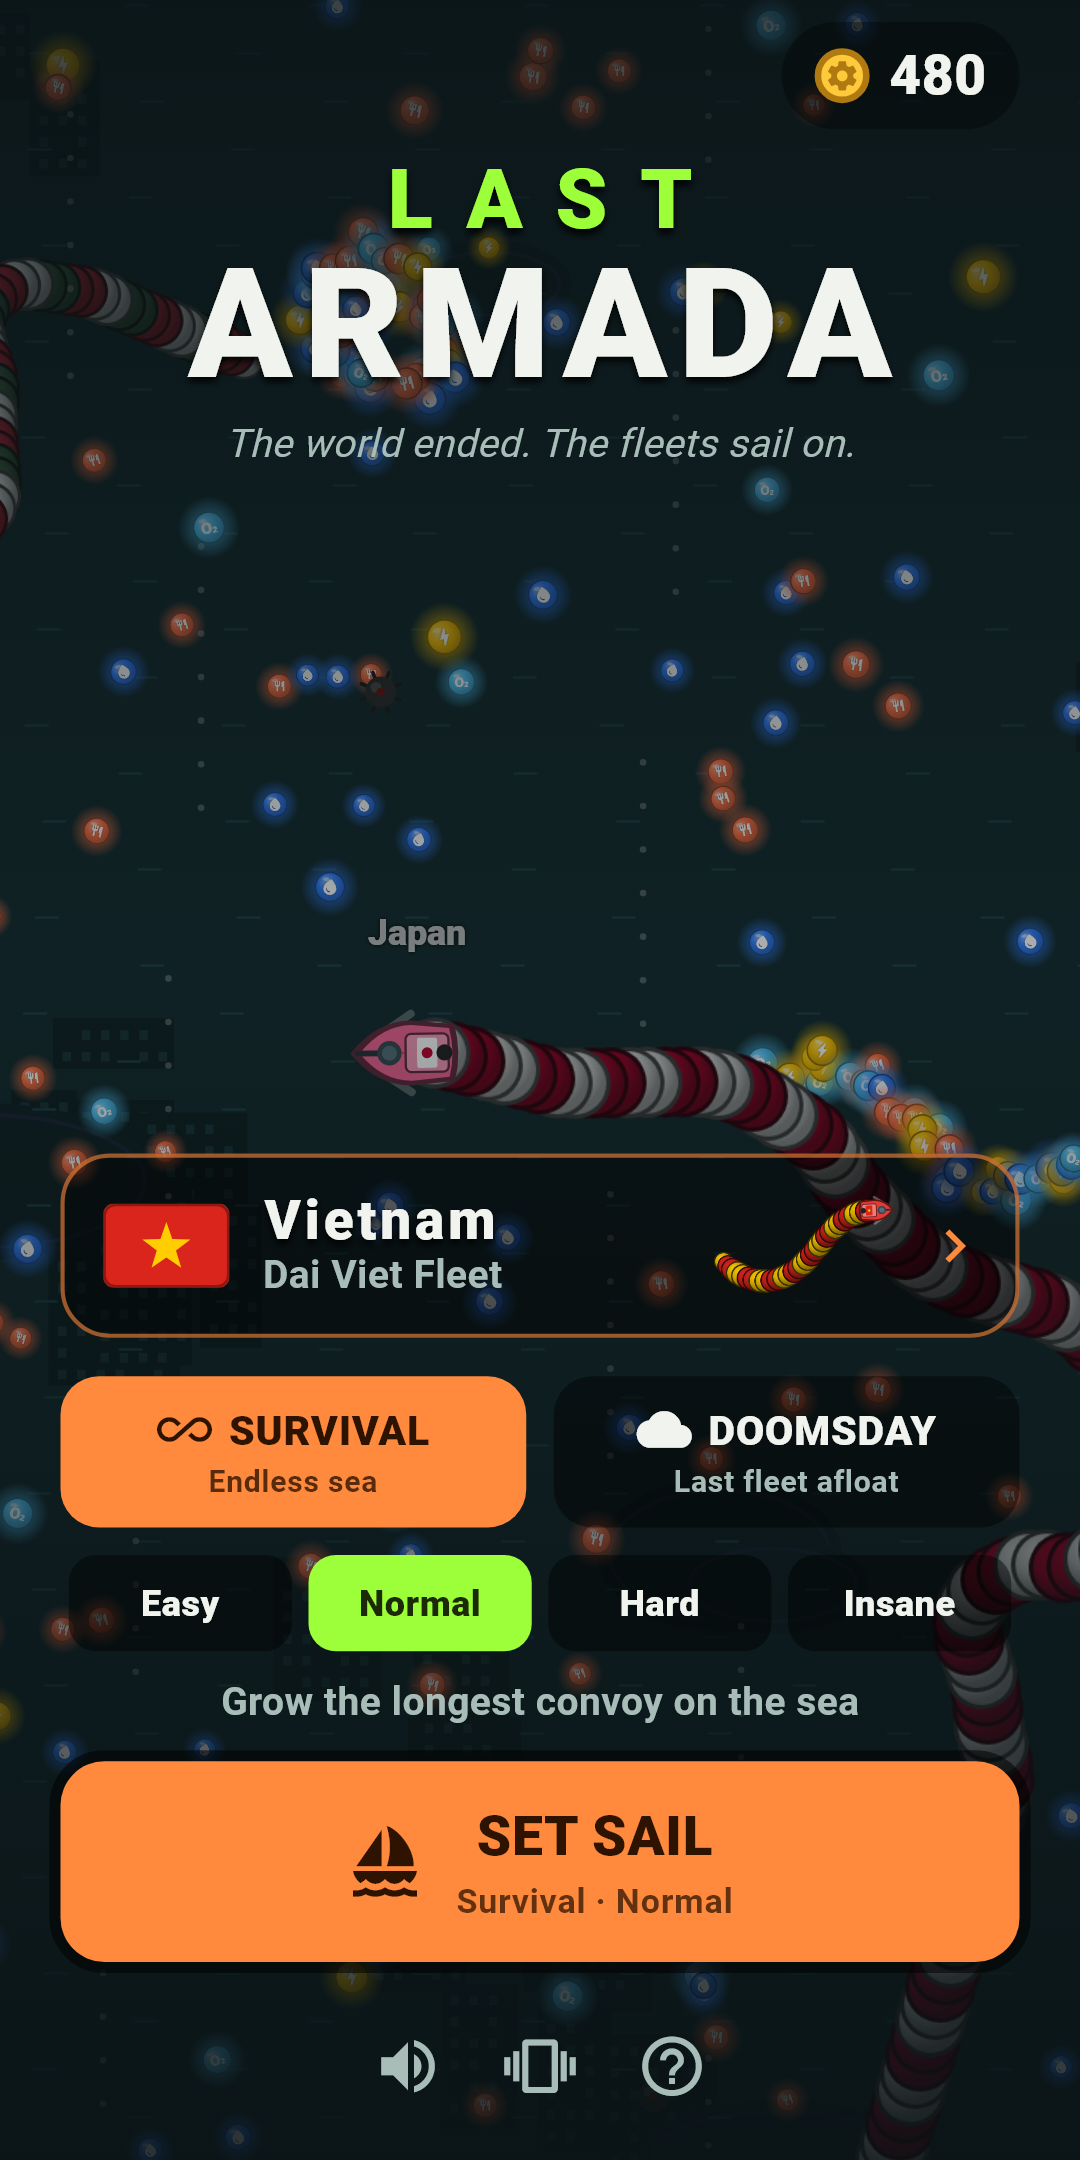
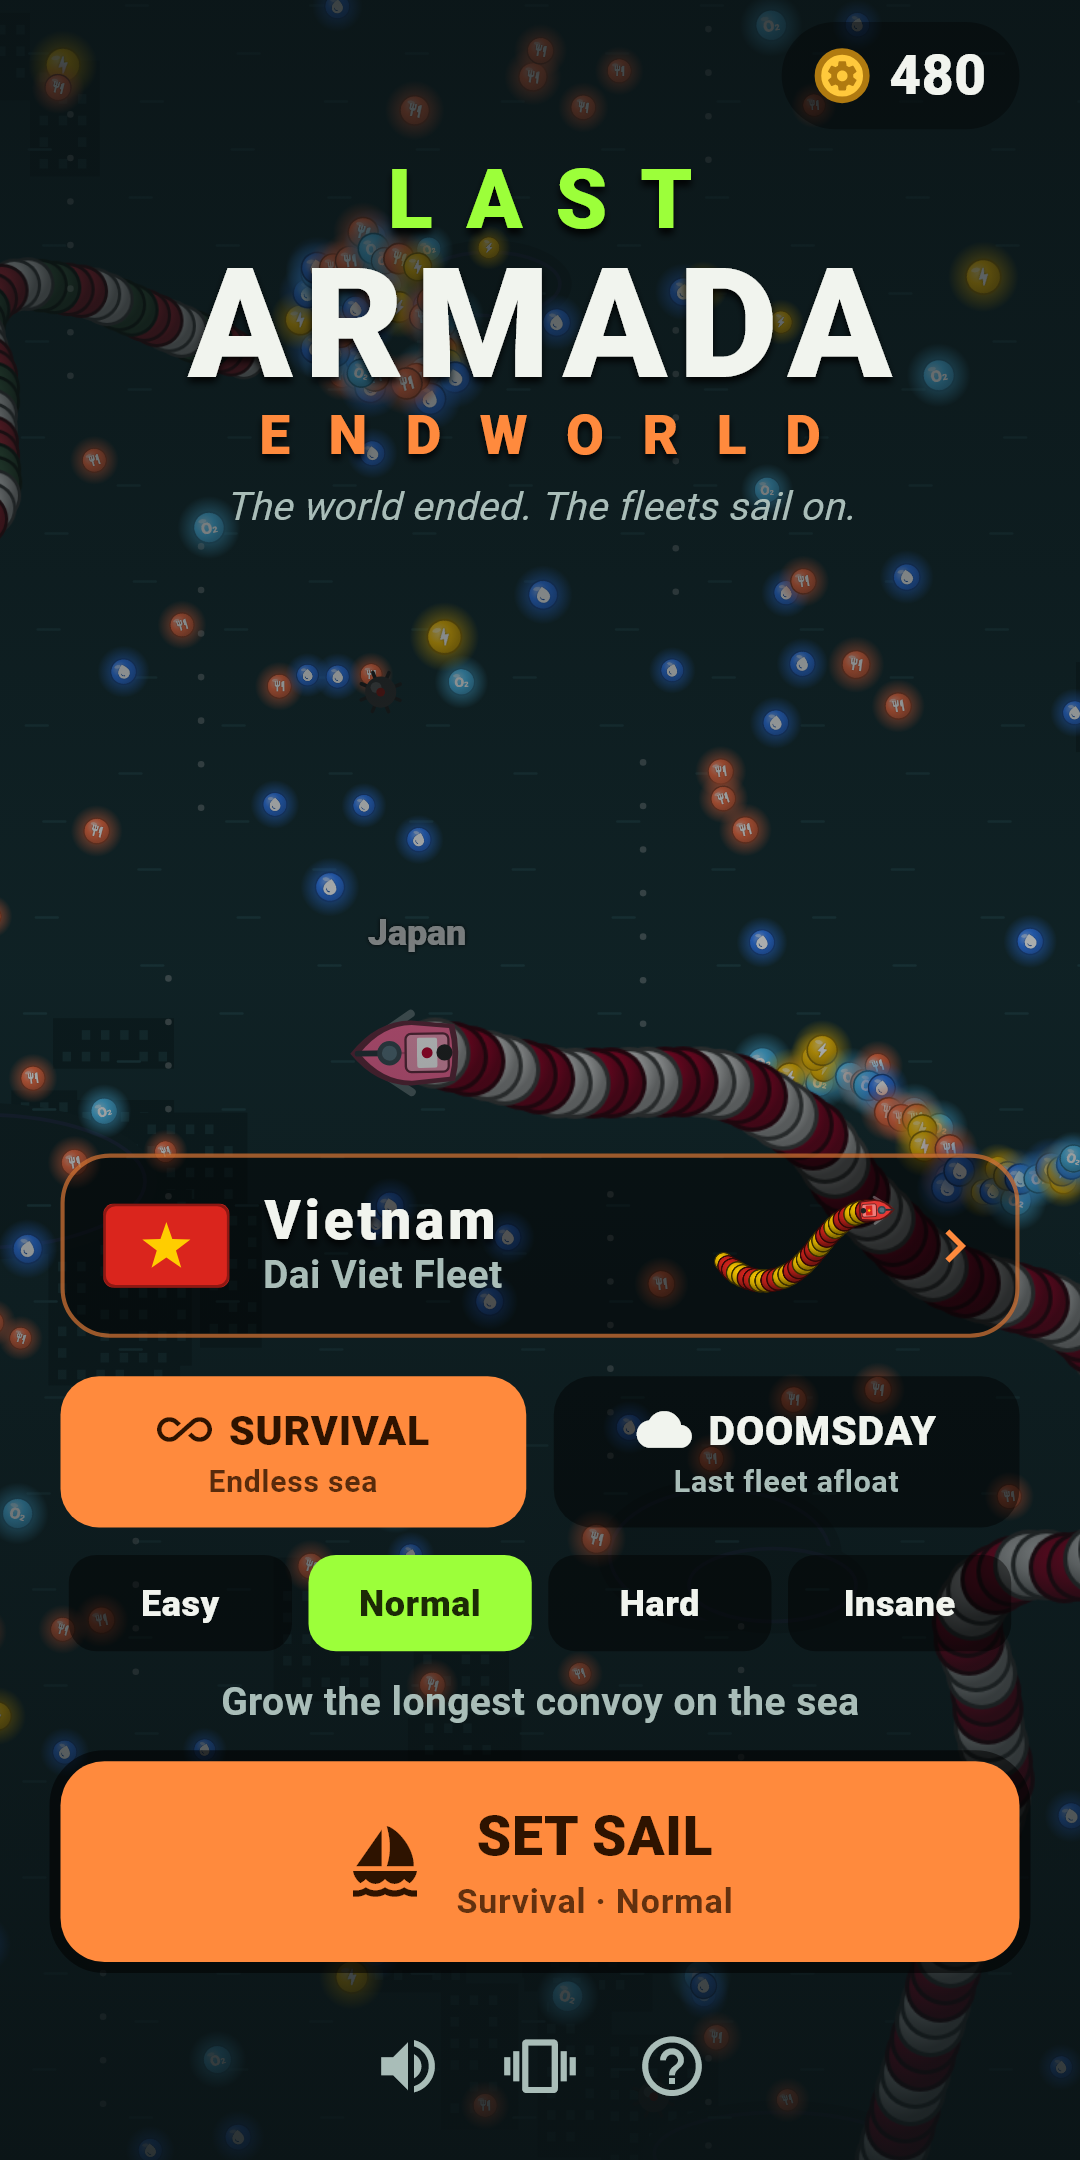
Last Armada: rename to Last Armada: Endworld

Changed region(s): [[0.5194, 0.1861, 0.7944, 0.2481], [0.2139, 0.1861, 0.4889, 0.2481]]

diff --git a/lastarmada/privacy-policy.html b/lastarmada/privacy-policy.html
@@ -3,8 +3,8 @@
 <head>
 <meta charset="utf-8">
 <meta name="viewport" content="width=device-width, initial-scale=1">
-<title>Privacy Policy – Last Armada</title>
-<meta name="description" content="Privacy Policy for the Last Armada Android game.">
+<title>Privacy Policy – Last Armada: Endworld</title>
+<meta name="description" content="Privacy Policy for the Last Armada: Endworld Android game.">
 <style>
   :root {
     --bg: #f3f6f1; --fg: #15261f; --muted: #52665c; --accent: #1e7a57;
@@ -34,7 +34,7 @@
 <body>
 <main>
   <h1>Privacy Policy</h1>
-  <p class="meta">Last Armada (Android) · Effective date: November 23, 2026</p>
+  <p class="meta">Last Armada: Endworld (Android) · Effective date: November 23, 2026</p>
 
   <div class="summary">
     <strong>The short version</strong>
@@ -46,7 +46,7 @@
   </div>
 
   <h2>1. Who we are</h2>
-  <p>This policy applies to the Last Armada game for Android (package <code>com.anhrice.lastarmada</code>), published by anhrice (“we”, “us”). If you have any question about this policy, contact us at <a href="mailto:tanh.naht@gmail.com">tanh.naht@gmail.com</a>.</p>
+  <p>This policy applies to the Last Armada: Endworld game for Android (package <code>com.anhrice.lastarmada</code>), published by anhrice (“we”, “us”). If you have any question about this policy, contact us at <a href="mailto:tanh.naht@gmail.com">tanh.naht@gmail.com</a>.</p>
 
   <h2>2. Information stored on your device</h2>
   <p>To keep your progress, the game saves in its private storage on your device: your salvage coins, the nations you have unlocked and the one you command, your best score for each mode and difficulty, the number of matches played, fleets sunk and Doomsday wins, your chosen mode and difficulty, and your sound and vibration settings.</p>
@@ -55,7 +55,7 @@
   <p>The rival fleets in the game are computer-controlled. There is no chat, no multiplayer and no way to share content with other users. Flags and nation names are used for fun only and carry no political meaning.</p>
 
   <h2>3. Advertising (Google AdMob)</h2>
-  <p>Last Armada shows full-screen ads at natural breaks (after a match ends, at most every few matches), provided by Google AdMob, a service of Google LLC. You can also choose to watch an ad to unlock a nation for free or to continue a match after your fleet sinks; such ads only play when you tap that button. Ads never appear during a match and only after your consent choice (where required) has been made. Ads are limited to content rated PG or lower. To serve ads, measure their performance and prevent fraud, the Google Mobile Ads SDK built into the game may automatically collect and share with Google:</p>
+  <p>Last Armada: Endworld shows full-screen ads at natural breaks (after a match ends, at most every few matches), provided by Google AdMob, a service of Google LLC. You can also choose to watch an ad to unlock a nation for free or to continue a match after your fleet sinks; such ads only play when you tap that button. Ads never appear during a match and only after your consent choice (where required) has been made. Ads are limited to content rated PG or lower. To serve ads, measure their performance and prevent fraud, the Google Mobile Ads SDK built into the game may automatically collect and share with Google:</p>
   <div class="table-wrap">
   <table>
     <tr><th>Data</th><th>Purpose</th></tr>
@@ -82,7 +82,7 @@
   <p>Your progress and settings stay on your device. Uninstalling the game or clearing its storage deletes everything. We hold no copy and therefore cannot recover it. For data collected by Google for advertising, see Google’s policy linked above and <a href="https://myadcenter.google.com/" rel="noopener">My Ad Center</a>.</p>
 
   <h2>7. Children</h2>
-  <p>Last Armada is not directed at children under 13 (or the equivalent minimum age in your country), and we do not knowingly collect personal information from children.</p>
+  <p>Last Armada: Endworld is not directed at children under 13 (or the equivalent minimum age in your country), and we do not knowingly collect personal information from children.</p>
 
   <h2>8. Your rights</h2>
   <p>Depending on where you live (for example under the GDPR or US state privacy laws), you may have rights to access, correct, delete or restrict the use of your personal data, and to withdraw consent. As we do not store any of your data, most of these rights can be exercised directly in the game or in your device settings; requests about advertising data can be made to Google. You can also contact us at the address above and we will help.</p>
@@ -90,7 +90,7 @@
   <h2>9. Changes to this policy</h2>
   <p>We may update this policy, for example when the game gains new features. The new version will be posted on this page with a new effective date. If a change is significant, we will also mention it in the game’s release notes.</p>
 
-  <footer>© 2026 anhrice · Last Armada</footer>
+  <footer>© 2026 anhrice · Last Armada: Endworld</footer>
 </main>
 </body>
 </html>

diff --git a/lastarmada/index.html b/lastarmada/index.html
@@ -3,9 +3,9 @@
 <head>
 <meta charset="utf-8">
 <meta name="viewport" content="width=device-width, initial-scale=1">
-<title>Last Armada – The fleets sail on</title>
-<meta name="description" content="Last Armada is an offline fleet.io game on a post-apocalyptic sea: command your nation's fleet, collect energy, oxygen, food and water to grow your convoy and outsmart AI fleets. No internet needed.">
-<meta property="og:title" content="Last Armada">
+<title>Last Armada: Endworld – The fleets sail on</title>
+<meta name="description" content="Last Armada: Endworld is an offline fleet.io game on a post-apocalyptic sea: command your nation's fleet, collect energy, oxygen, food and water to grow your convoy and outsmart AI fleets. No internet needed.">
+<meta property="og:title" content="Last Armada: Endworld">
 <meta property="og:description" content="The world ended. The fleets sail on.">
 <meta property="og:image" content="https://anhphan14-dev.github.io/lastarmada/icon-512.png">
 <link rel="icon" href="icon-512.png">
@@ -27,6 +27,7 @@
   .hero img { width: 112px; height: 112px; border-radius: 26px; box-shadow: 0 10px 30px rgba(0,0,0,.45); }
   .hero .kicker { margin: 20px 0 0; color: var(--toxic); font-weight: 900; letter-spacing: .5em; }
   .hero h1 { font-size: 2.8rem; margin: 0 0 6px; line-height: 1.1; font-weight: 900; letter-spacing: .06em; }
+  .hero .sub { color: var(--rust); font-weight: 900; letter-spacing: .5em; margin: 0 0 14px; }
   .hero p { margin: 0 auto; max-width: 560px; opacity: .92; font-size: 1.1rem; }
   .btn { display: inline-block; margin-top: 28px; padding: 13px 26px; border-radius: 999px;
          background: var(--rust); color: #2e1300; font-weight: 800; text-decoration: none; }
@@ -48,9 +49,10 @@
 </head>
 <body>
 <header class="hero">
-  <img src="icon-512.png" alt="Last Armada icon">
+  <img src="icon-512.png" alt="Last Armada: Endworld icon">
   <p class="kicker">LAST</p>
   <h1>ARMADA</h1>
+  <p class="sub">ENDWORLD</p>
   <p>The world ended. The fleets sail on. Command your nation's fleet, grow the longest convoy on a toxic sea and sink rival fleets, all offline.</p>
   <a class="btn" href="https://play.google.com/store/apps/details?id=com.anhrice.lastarmada">Get it on Google Play</a>
 </header>
